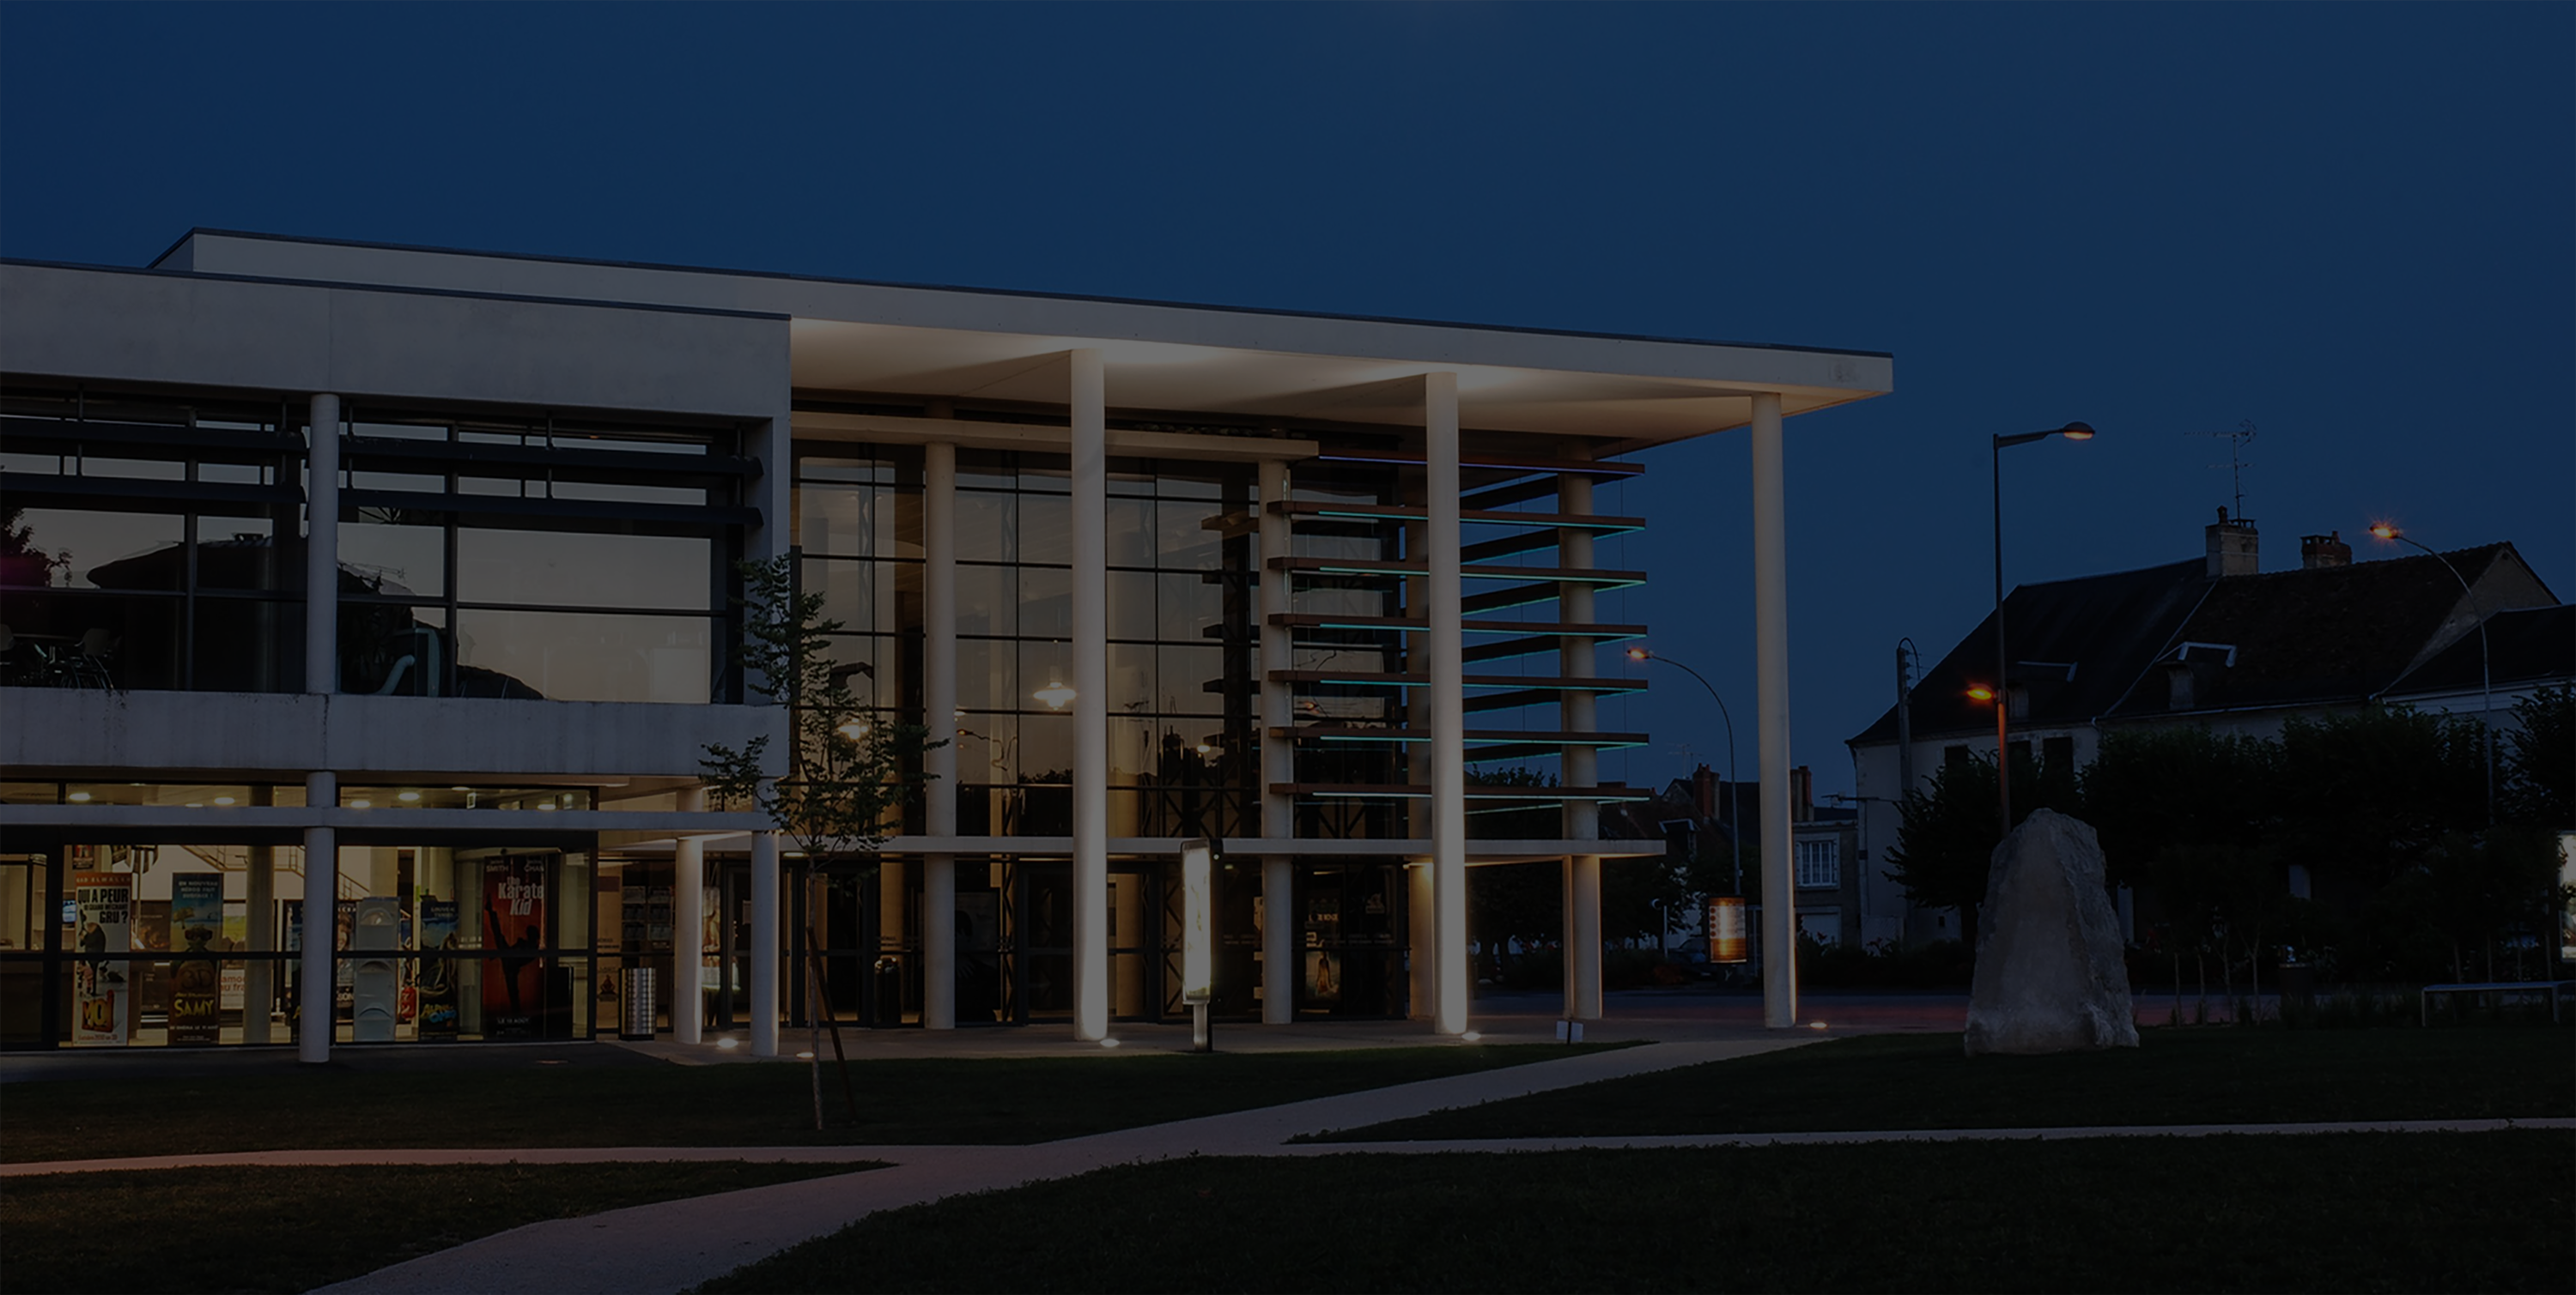
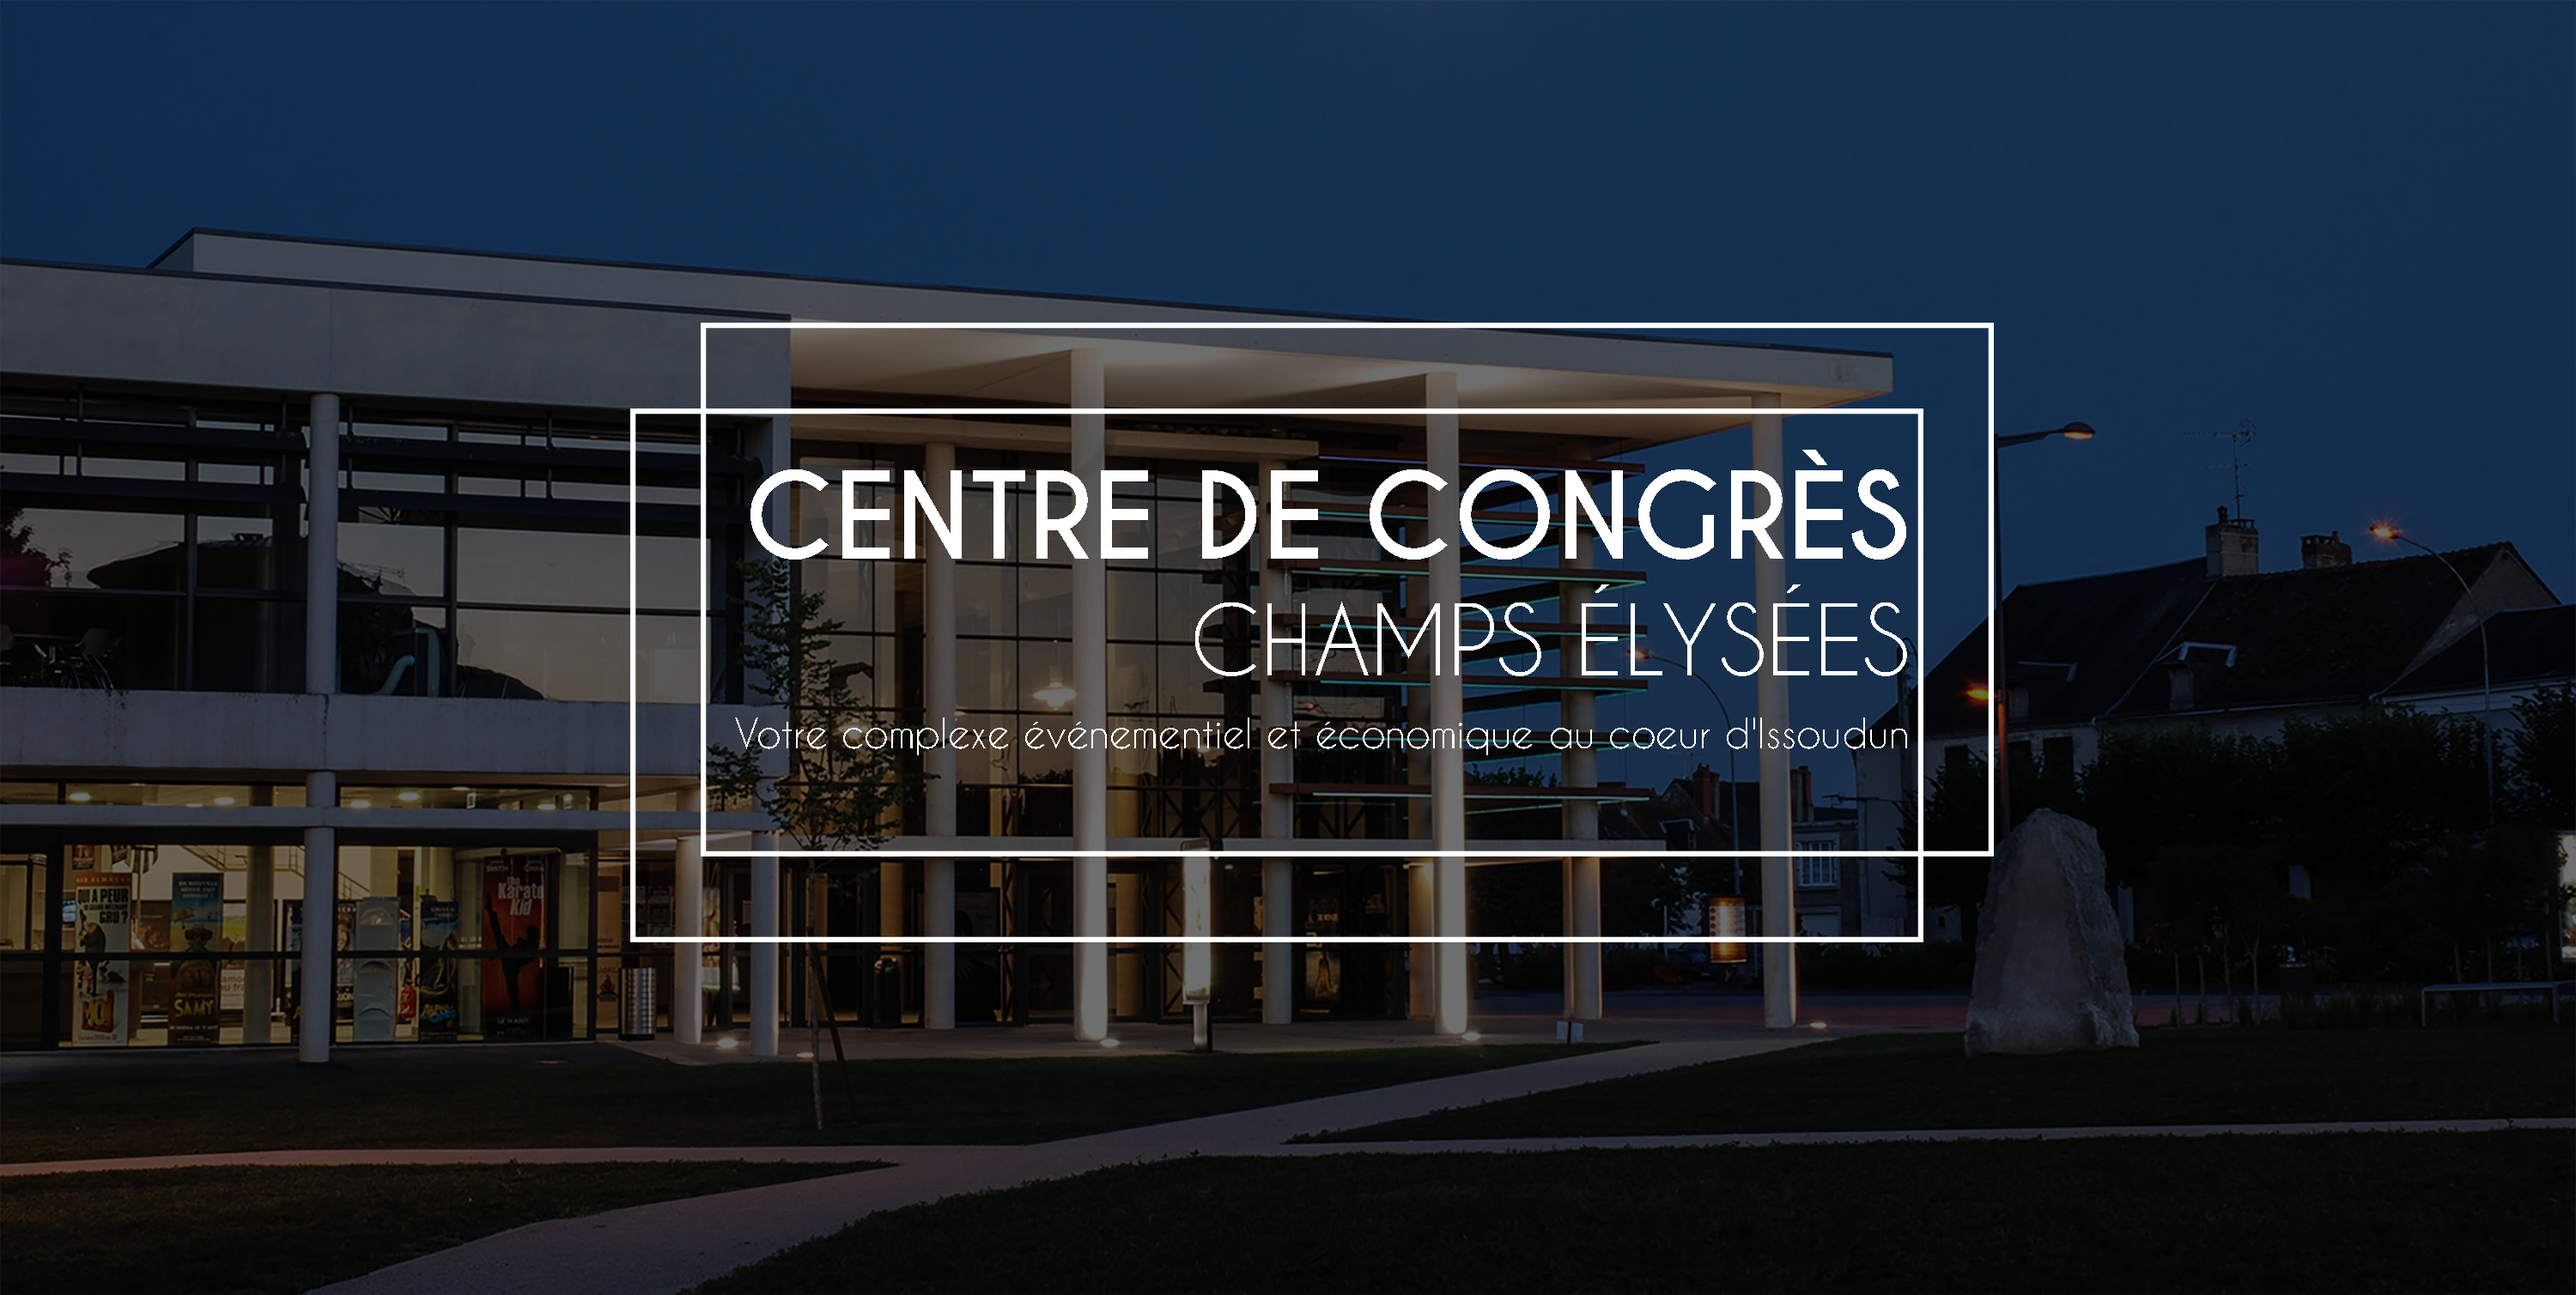
background

diff --git a/styles/card.css b/styles/card.css
@@ -156,55 +156,6 @@ nav{
   z-index: -50;
 }
 
-.background{
-  margin: 0 auto;
-  width: 100%;
-  position: relative;
-  margin-top: -35%;
-  margin-bottom: 25%;
-}
-
-.rectangle1{
-  color: white;
-  text-align: right;
-  padding: 1%;
-  padding-top: 2%;
-  margin: 0 auto;
-  border-style: solid;
-  border-width: 2px;;
-  border-color: white;
-  height: 325px;
-  width: 51.5%;
-  z-index: 1;
-}
-
-
-.rectangle2{
-  margin-left: 27.5%;
-  margin-top: -20%;
-  height: 325px;
-  width: 51.5%;
-  border-style: solid;
-  border-width: 2px;
-  border-color: white;
-  z-index: 1;
-}
-
-.rectangle1 h1{
-  font-family: 'Caviar Dreams';
-  font-size: 85px;
-}
-
-.rectangle1 h2{
-  font-family: 'Caviar Dreams';
-  font-weight: lighter;
-  font-size: 65px;
-}
-
-.rectangle1 p{
-  font-family: 'Caviar Dreams';
-  font-size: 25px;
-}
 
 /*Introduction*/
 

diff --git a/index.html b/index.html
@@ -25,16 +25,6 @@
     </header>
     <main class="MainContainer">
       <img class="CdC" src="images/CDC exterieur/background.png" alt="Centre de Congrès">
-      <div class="background">
-        <div class="rectangle1">
-          <h1><bold>CENTRE DE CONGRÈS</bold></h1>
-          <h2>CHAMPS ÉLYSÉES</h2>
-          <p>
-            <bold>Votre complexe événementiel et économique au coeur d'Issoudun</bold>
-          </p>
-        </div>
-        <div class="rectangle2"> </div>
-      </div>
       <div class="container-home">
         <div class="presentation">
           <img src="images/CDC exterieur/cdcJardins.jpg" alt="cdcJardins">
